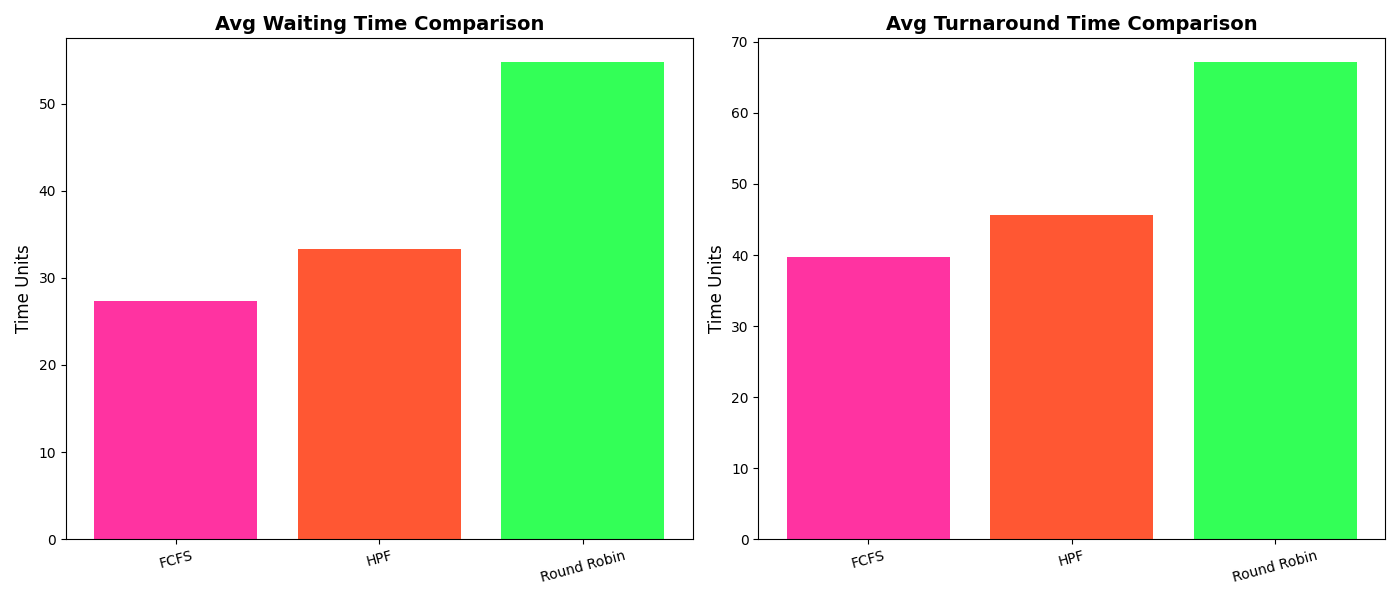
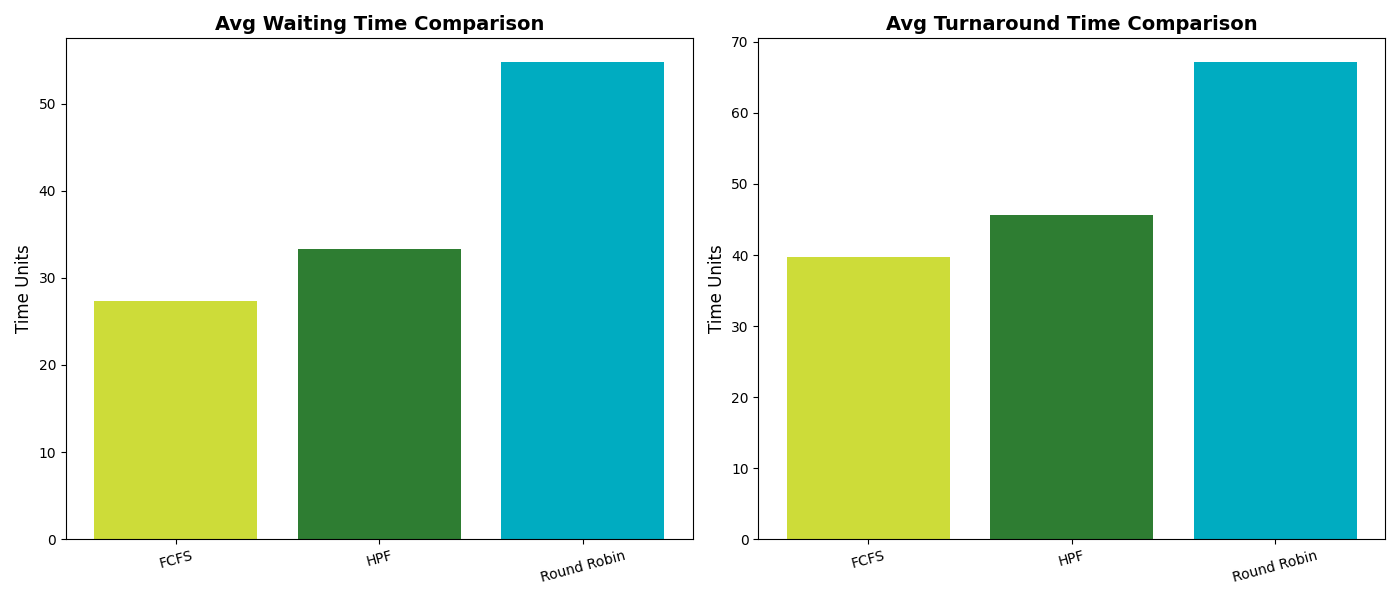
style(generate_graphs): update color scheme for better readability
The color scheme in the bar charts has been updated to improve visual clarity and consistency. The new colors are more distinct and easier to differentiate, enhancing the overall readability of the graphs.

diff --git a/generate_graphs.py b/generate_graphs.py
@@ -18,14 +18,14 @@ def generate_graphs():
 
     # Average Waiting Time Comparison
     plt.subplot(1, 2, 1)
-    plt.bar(algorithms, avg_waiting_times, color=['#FF5733', '#33FF57', '#3357FF', '#FF33A1'])  # New color scheme
+    plt.bar(algorithms, avg_waiting_times, color=['#2E7D32', '#00ACC1', '#000000', '#CDDC39'])  # New color scheme FF5733 , 33FF57 , 3357FF , FF33A1
     plt.title('Avg Waiting Time Comparison', fontsize=14, fontweight='bold')  # Bold title
     plt.ylabel('Time Units', fontsize=12)
     plt.xticks(rotation=15)  # Rotate x-axis labels
 
     # Average Turnaround Time Comparison
     plt.subplot(1, 2, 2)
-    plt.bar(algorithms, avg_turnaround_times, color=['#FF5733', '#33FF57', '#3357FF', '#FF33A1'])  # New color scheme
+    plt.bar(algorithms, avg_turnaround_times, color=['#2E7D32', '#00ACC1', '#000000', '#CDDC39'])  # New color scheme
     plt.title('Avg Turnaround Time Comparison', fontsize=14, fontweight='bold')  # Bold title
     plt.ylabel('Time Units', fontsize=12)
     plt.xticks(rotation=15)  # Rotate x-axis labels
@@ -53,14 +53,14 @@ def generate_graphs():
 
     # Average Waiting Time Comparison
     plt.subplot(1, 2, 1)
-    plt.bar(algorithms, avg_waiting_times, color=['#FF5733', '#33FF57', '#3357FF', '#FF33A1'])  # New color scheme
-    plt.title('Avg Waiting Time Comparison', fontsize=14, fontweight='bold')  # Bold title
+    plt.bar(algorithms, avg_waiting_times, color=['#2E7D32', '#00ACC1', '#000000', '#CDDC39'])  # New color scheme
+    plt.title('Avg Waiting Time Comparison', fontsize=14, fontweight='bold',)  # Bold title
     plt.ylabel('Time Units', fontsize=12)
     plt.xticks(rotation=15)  # Rotate x-axis labels
 
     # Average Turnaround Time Comparison
     plt.subplot(1, 2, 2)
-    plt.bar(algorithms, avg_turnaround_times, color=['#FF5733', '#33FF57', '#3357FF', '#FF33A1'])  # New color scheme
+    plt.bar(algorithms, avg_turnaround_times, color=['#2E7D32', '#00ACC1', '#000000', '#CDDC39'])  # New color scheme
     plt.title('Avg Turnaround Time Comparison', fontsize=14, fontweight='bold')  # Bold title
     plt.ylabel('Time Units', fontsize=12)
     plt.xticks(rotation=15)  # Rotate x-axis labels
